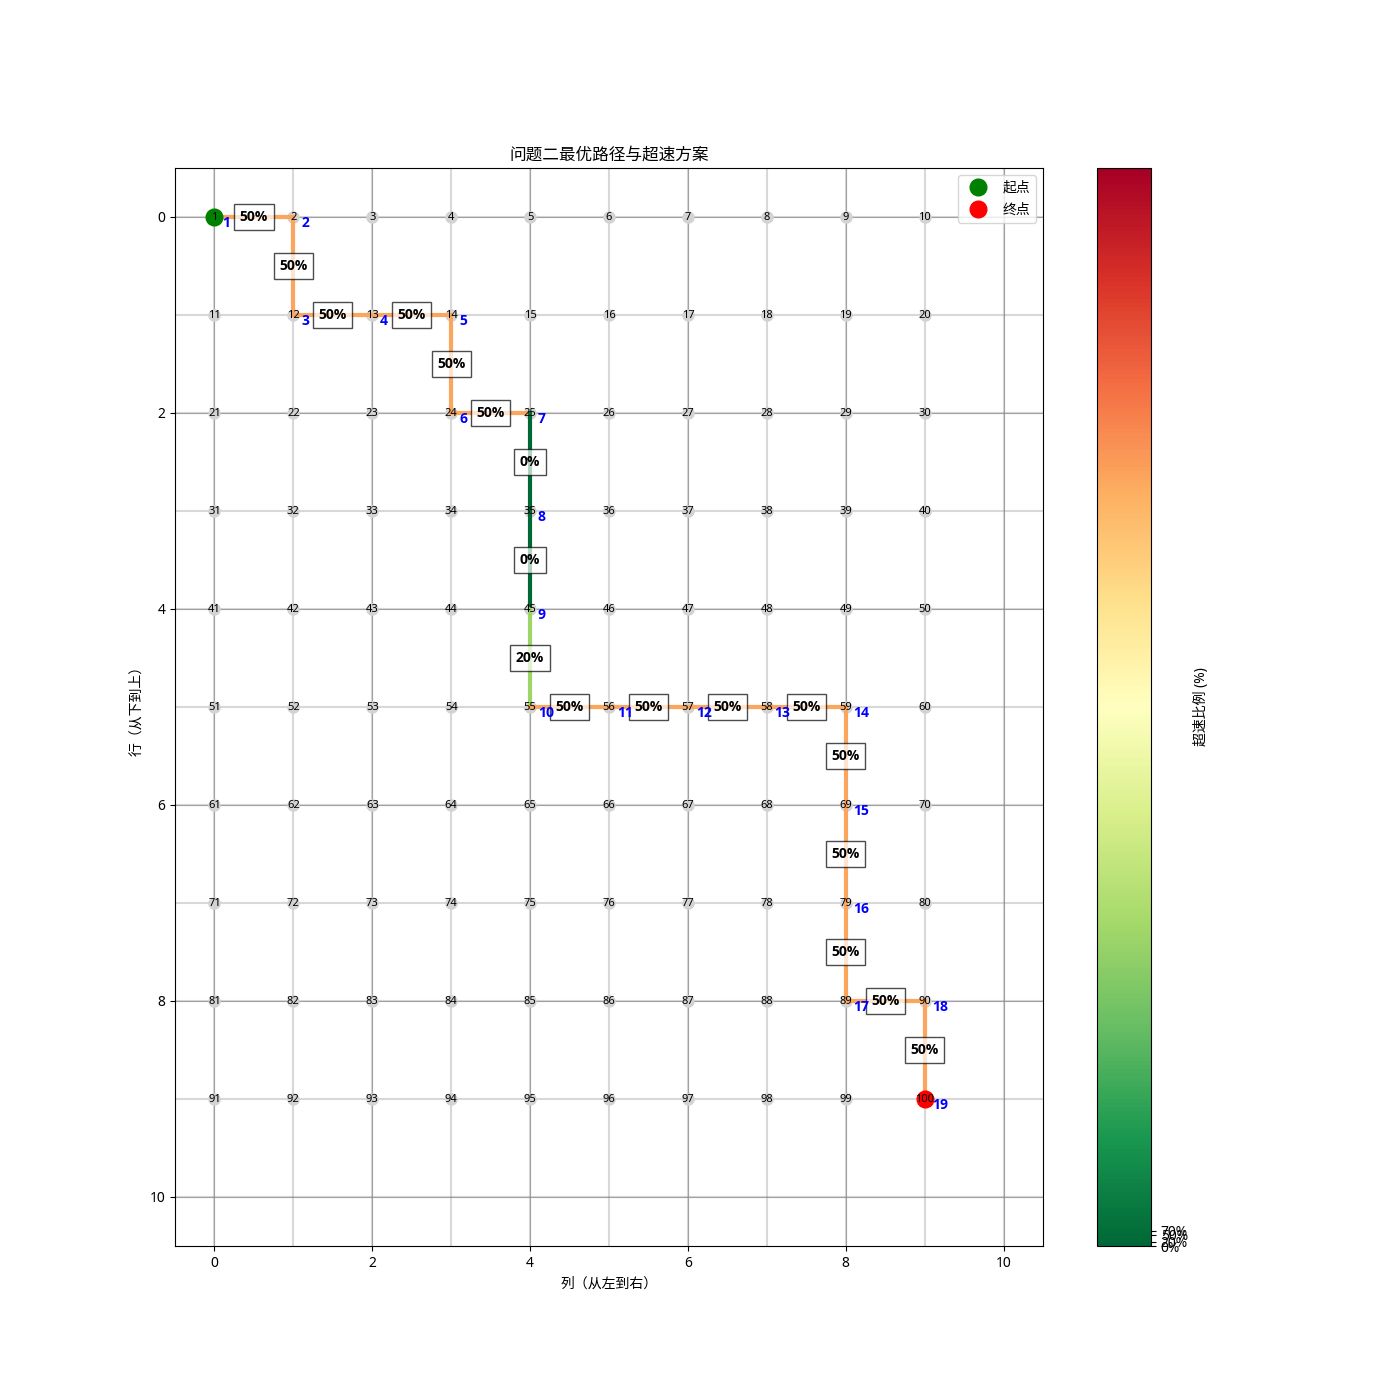
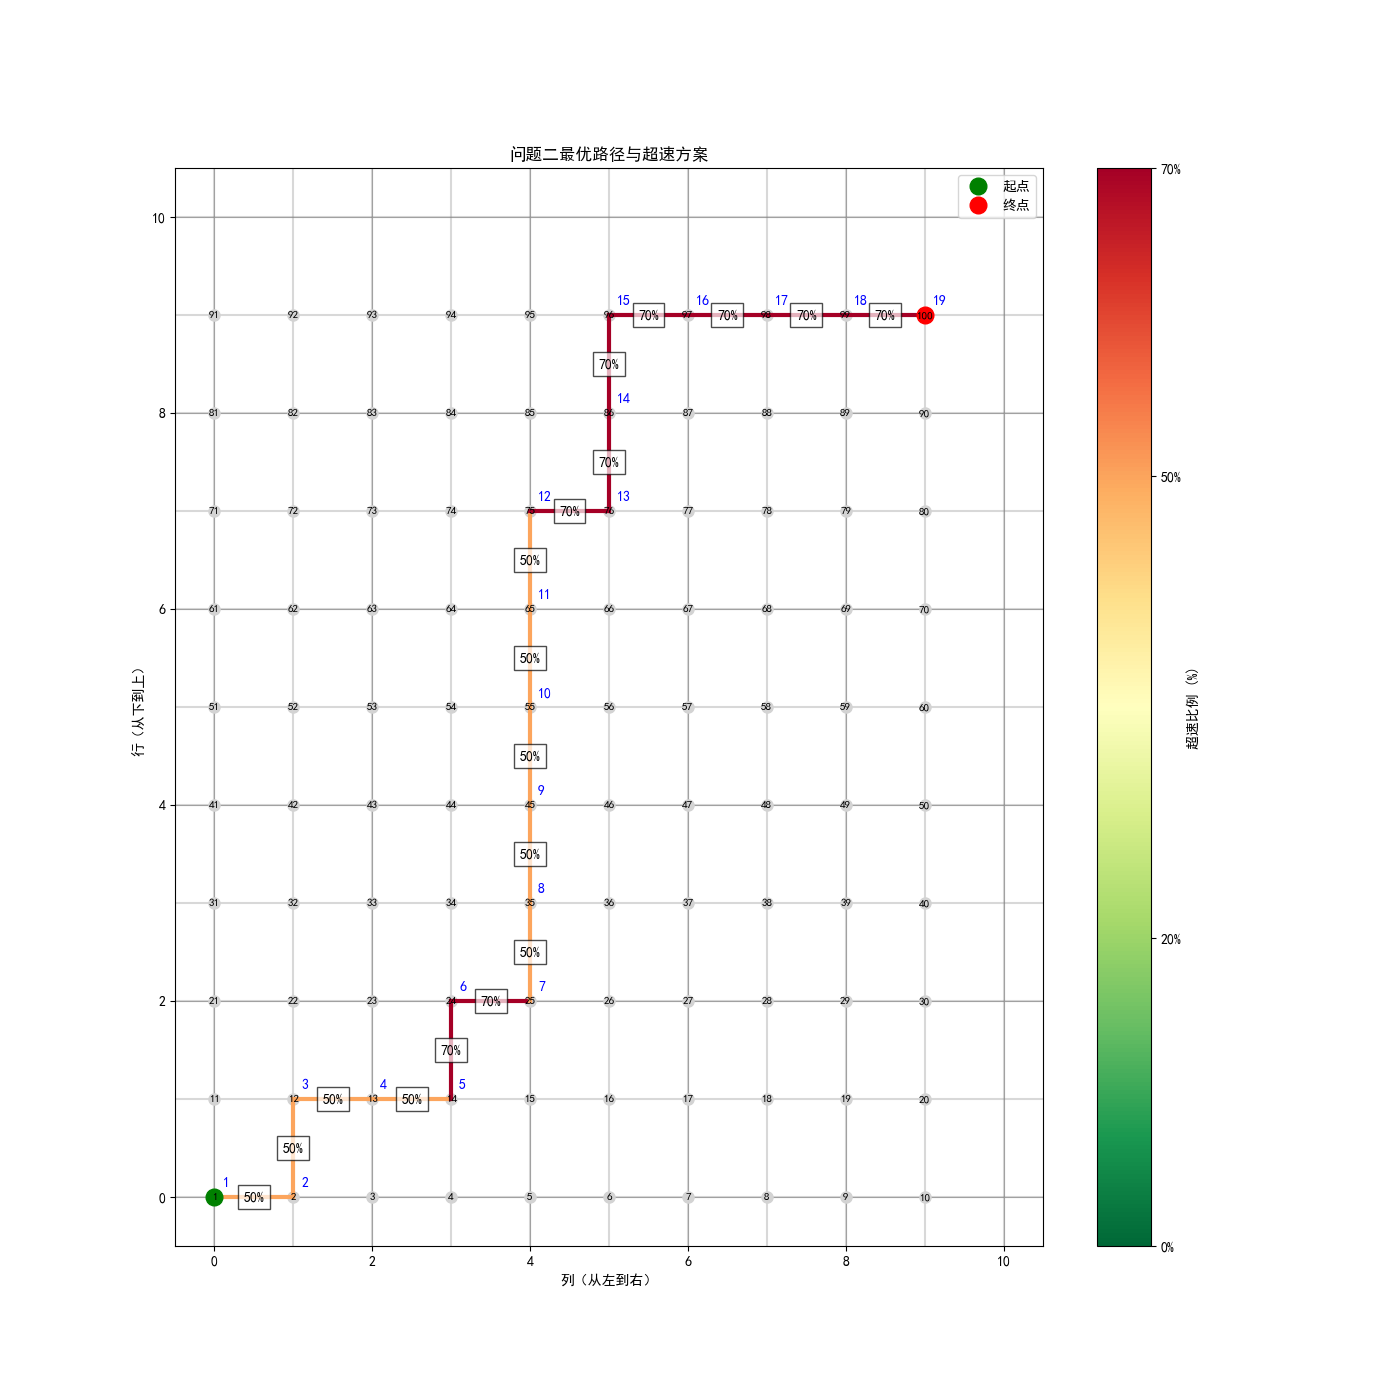
2

diff --git a/2/Optimal Driving Route and Cost Calculation/integrated_solution.py b/2/Optimal Driving Route and Cost Calculation/integrated_solution.py
@@ -2,6 +2,10 @@ import numpy as np
 import heapq
 import matplotlib.pyplot as plt
 
+# 设置Matplotlib支持中文显示
+plt.rcParams['font.sans-serif'] = ['SimHei']  # 指定默认字体为黑体
+plt.rcParams['axes.unicode_minus'] = False  # 解决保存图像是负号'-'显示为方块的问题
+
 # === 一）参数与数据读取 ===
 L = 50.0                 # 每段距离（km）
 fuel_price = 7.76        # 油价（元/升）
@@ -426,7 +430,8 @@ def visualize_path(path, speed_plan, title):
     sm.set_array([])
     cbar = plt.colorbar(sm, ax=ax)
     cbar.set_label('超速比例 (%)')
-    cbar.set_ticks([0, 20/70, 50/70, 1])
+    # 将刻度设置在颜色条的实际数据范围 [0, 70] 内
+    cbar.set_ticks([0, 20, 50, 70])
     cbar.set_ticklabels(['0%', '20%', '50%', '70%'])
     
     plt.title(title)
@@ -434,7 +439,7 @@ def visualize_path(path, speed_plan, title):
     plt.ylabel('行（从下到上）')
     plt.grid(True)
     plt.legend()
-    plt.gca().invert_yaxis()  # 反转y轴，使得原点在左下角
+    # plt.gca().invert_yaxis()  # 注释掉或删除此行以确保Y轴0点在底部
     plt.savefig(f"{title.replace(' ', '_')}.png")
     plt.close()
 
